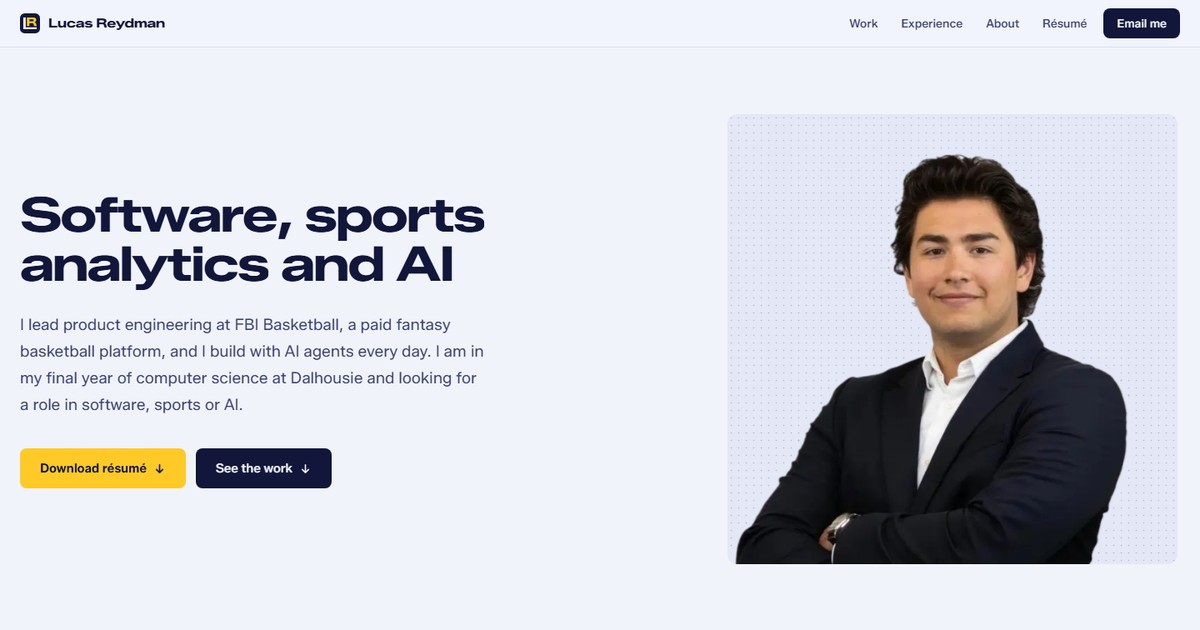
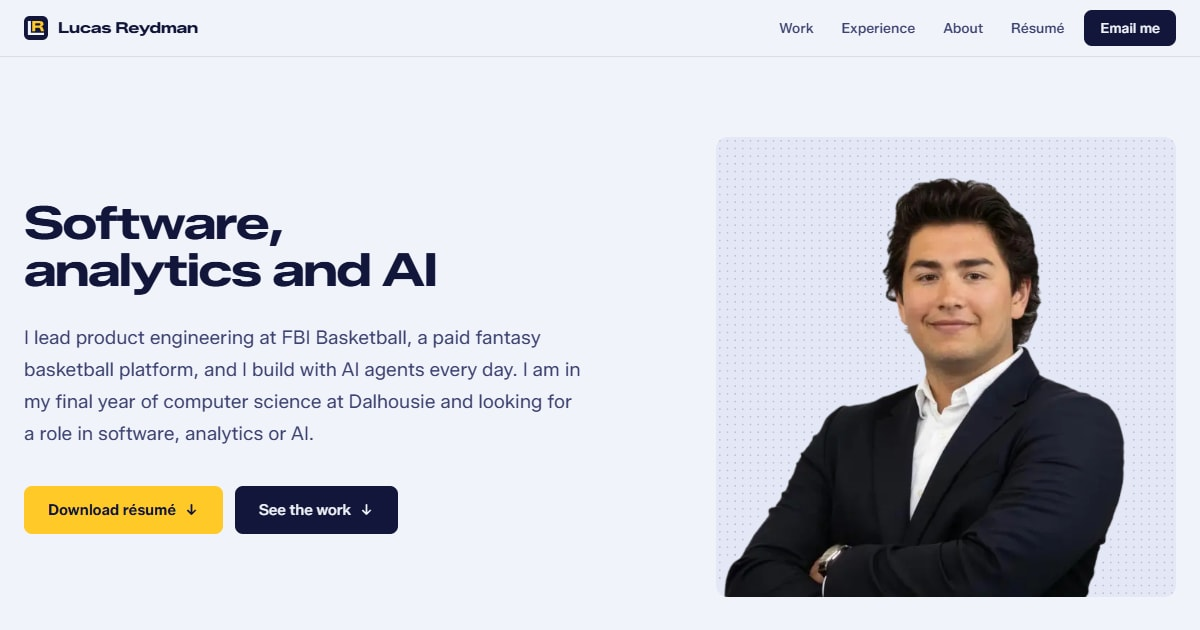
Say "Software, analytics and AI" so the pitch reads outside sport (#4)
The hero and contact headlines drop the word "sports" so they also
work for someone hiring outside it. The hero sub, the page metadata
and the résumé summary follow, and the share images and the résumé
PDF are remade from the new page. The About text still describes the
work as sports analytics, and the work itself is unchanged.

diff --git a/content/profile.ts b/content/profile.ts
@@ -16,7 +16,7 @@ export const profile: Profile = {
     includes internal tools that are not products in any sense a client would
     recognise, and a private coaching dashboard is not a product.
   */
-  sub: "Software developer, working in sports analytics and AI",
+  sub: "Software developer, working in analytics and AI",
 
   /*
     An overview, not a catalogue. It names no clients and no projects on purpose:
@@ -58,8 +58,12 @@ export const profile: Profile = {
       development and AI". So the headline names all three, in the order of
       what he is (a software developer), what he works on, and what he works
       with. The sub says what the AI part is in fact: he builds with agents.
+
+      Later the same day "sports" came out of the headline so it also reads
+      for someone hiring outside sport, and the sub and metadata followed. The
+      work under it is all sport, and the About text says so in full.
     */
-    headline: "Software, sports analytics and AI",
+    headline: "Software, analytics and AI",
     /*
       2026-11-17. The sub used to say "where I wrote the projection engine
       behind its rankings". Lucas: it "dumbs it down", as if that were all he
@@ -68,7 +72,7 @@ export const profile: Profile = {
       headline already says the range of the work, so the sub does not repeat
       it: it gives the job, where he is in school, and what he is looking for.
     */
-    sub: "I lead product engineering at FBI Basketball, a paid fantasy basketball platform, and I build with AI agents every day. I am in my final year of computer science at Dalhousie and looking for a role in software, sports or AI.",
+    sub: "I lead product engineering at FBI Basketball, a paid fantasy basketball platform, and I build with AI agents every day. I am in my final year of computer science at Dalhousie and looking for a role in software, analytics or AI.",
     caption: "",
   },
   /* Sits between the job and the projects, and says plainly what the projects are. */
@@ -87,7 +91,7 @@ export const profile: Profile = {
     { label: "Languages", value: "English and French" },
   ],
   contact: {
-    headline: "Looking for work in software, sports analytics and AI",
+    headline: "Looking for work in software, analytics and AI",
     body: "I graduate in 2027 and take freelance work in the meantime. If you are hiring for a role that sits between the model and the product, I would like to hear about it.",
   },
 

diff --git a/content/resume.ts b/content/resume.ts
@@ -193,7 +193,7 @@ export const languages = "Bilingual in English and French.";
   project's own page explains.
 */
 export const summary =
-  "Software developer working in sports analytics and AI. I build the models that turn box scores, betting lines and injury reports into a number, and the products that put that number in front of the person making the decision.";
+  "Software developer working in analytics and AI. I build the models that turn box scores, betting lines and injury reports into a number, and the products that put that number in front of the person making the decision.";
 
 /** `short` is the same claim cut to one line of the printed sheet. */
 export const resumeProjects: { brand: Brand; name: string; line: string; short: string }[] = [

diff --git a/app/layout.tsx b/app/layout.tsx
@@ -14,7 +14,7 @@ export const metadata: Metadata = {
     nobody reads it, so nobody notices when it stops being true.
   */
   description:
-    "Software developer working in sports analytics and AI: projection models, betting models and fantasy tools, from the math to the product. Product engineering lead at FBI Basketball.",
+    "Software developer working in analytics and AI: projection models, betting models and fantasy tools, from the math to the product. Product engineering lead at FBI Basketball.",
   authors: [{ name: profile.name, url: siteUrl }],
   creator: profile.name,
   openGraph: {

diff --git a/app/resume/page.tsx b/app/resume/page.tsx
@@ -17,7 +17,7 @@ import { roleAnchor } from "@/lib/text";
 
 export const metadata: Metadata = {
   title: `Résumé, ${profile.name}`,
-  description: "Experience, projects, education and skills. Software developer working in sports analytics and AI.",
+  description: "Experience, projects, education and skills. Software developer working in analytics and AI.",
   alternates: { canonical: "/resume" },
 };
 

diff --git a/AGENTS.md b/AGENTS.md
@@ -10,7 +10,7 @@ This block is written and re-added by `next dev` — verify at `node_modules/nex
 
 # lucasreydman.xyz
 
-Personal website for Lucas Reydman, a software developer looking for work in software, sports analytics and AI. Sport is the subject of most of the work, and it is not the whole pitch (Lucas, 2026-11-17: "this is about sports but also about software development and AI"): keep all three in the hero and the contact line. Live at `lucasreydman.xyz`, on the Vercel project `lucasreydman-xyz`, deployed from `main`.
+Personal website for Lucas Reydman, a software developer looking for work in software, analytics and AI. Sport is the subject of most of the work, and it is not the whole pitch (Lucas, 2026-11-17: "this is about sports but also about software development and AI"): keep all three in the hero and the contact line. The two headlines say "Software, analytics and AI" without the word "sports" so they also read for a general audience (Lucas, same day); the hero sub, the page metadata and the résumé summary use the same wording. Sport is named in the About text and shown by the work itself. Live at `lucasreydman.xyz`, on the Vercel project `lucasreydman-xyz`, deployed from `main`.
 
 ## What this site is
 
